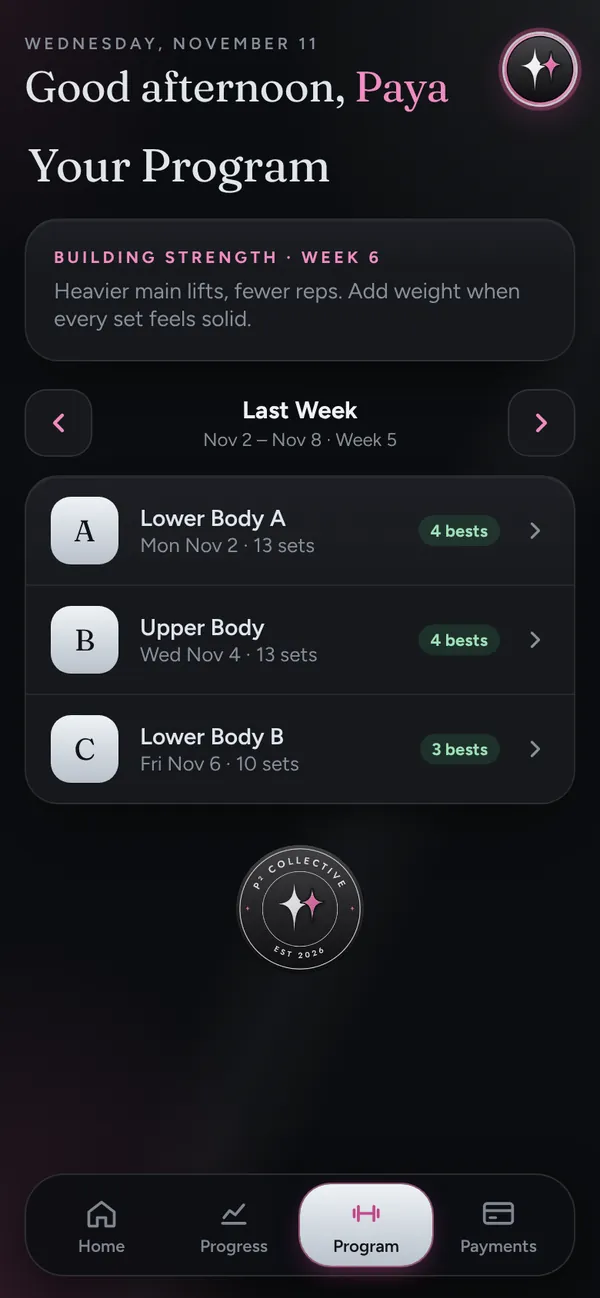
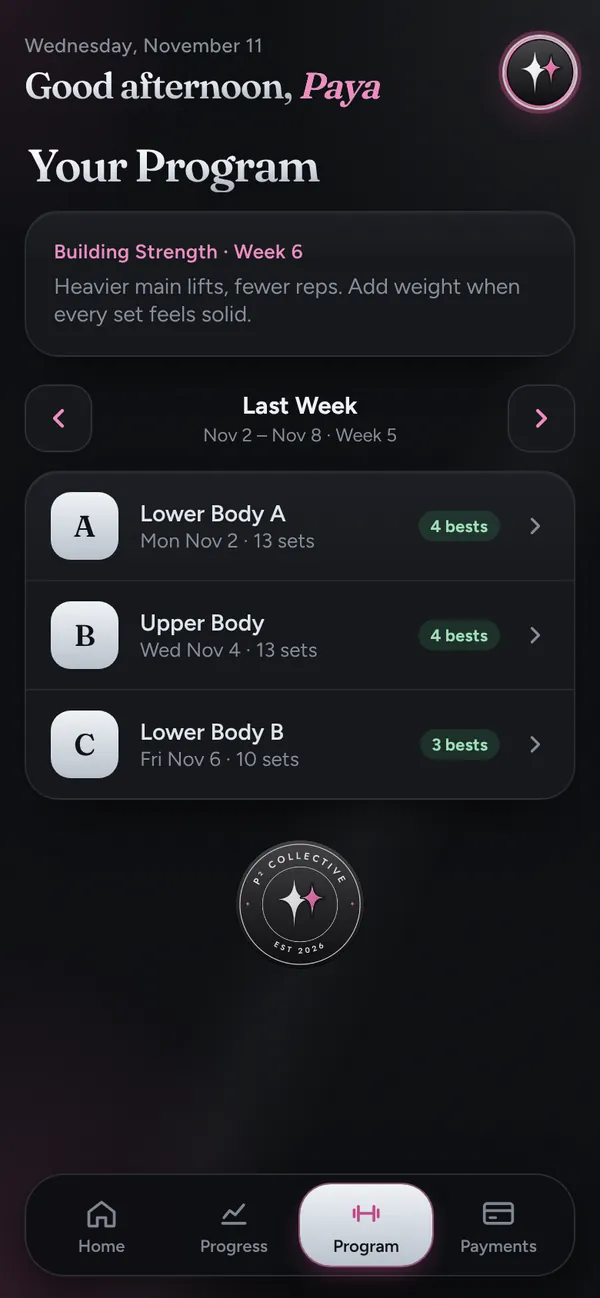
Thicker title font (Fraunces Semibold) on the website and tester dashboards
Claude-Session: https://claude.ai/code/session_01GUqqJf67EPZE3HdT2vwbG5

diff --git a/c/test-8cGrq0vk/index.html b/c/test-8cGrq0vk/index.html
@@ -14,7 +14,7 @@
 <link rel="apple-touch-icon" href="/training/app-icon.png">
 <link rel="icon" href="/training/app-icon.png">
 <link rel="preconnect" href="https://fonts.googleapis.com">
-<link rel="stylesheet" href="https://fonts.googleapis.com/css2?family=Fraunces:opsz,wght@9..144,300;9..144,400;9..144,500&family=Figtree:wght@400;500;600;700&display=swap">
+<link rel="stylesheet" href="https://fonts.googleapis.com/css2?family=Fraunces:ital,opsz,wght@0,9..144,400;0,9..144,600;1,9..144,600&family=Figtree:wght@400;500;600;700&display=swap">
[1 lines of base64/hex data omitted]
 :root{--bg:#121014;--card:#1D1A20;--line:rgba(255,255,255,.08);--fg:#F1ECEF;--muted:#A39BA6;--pink:#E05A9C;--pink2:#F08CC2;--soft:rgba(224,90,156,.16);--green:#9FE0B8;--amber:#F0B86E;--ease:cubic-bezier(.32,.72,0,1)}
 *{box-sizing:border-box}
@@ -241,16 +241,16 @@ body::after{content:"";position:fixed;inset:0;z-index:0;pointer-events:none;opac
 .tabs{position:fixed}
 .top{margin-bottom:22px;align-items:center}
 .top small{letter-spacing:.02em;text-transform:none;font-size:.86rem;font-weight:500}
-.top h1{font-weight:300;font-size:clamp(1.35rem,6.6vw,1.75rem);white-space:nowrap;line-height:1.1;letter-spacing:-.035em;background:linear-gradient(178deg,#fff 8%,#DDE3EA 45%,#8D95A0 98%);-webkit-background-clip:text;background-clip:text;-webkit-text-fill-color:transparent;padding-bottom:.08em}
-.top h1 b{-webkit-text-fill-color:var(--pink2);font-style:italic;font-weight:300}
-h2.page{font-weight:300;font-size:clamp(1.6rem,7.6vw,2rem);white-space:nowrap;line-height:1;letter-spacing:-.035em;margin:2px 2px 12px;background:linear-gradient(178deg,#fff 8%,#DDE3EA 45%,#8D95A0 98%);-webkit-background-clip:text;background-clip:text;-webkit-text-fill-color:transparent;padding-bottom:.08em}
-.sec{font-family:Fraunces,Georgia,serif;font-weight:400;font-size:1.12rem;letter-spacing:-.01em;text-transform:none;color:#EEF2F5;margin:18px 2px 9px;align-items:baseline}
+.top h1{font-weight:600;font-size:clamp(1.35rem,6.6vw,1.75rem);white-space:nowrap;line-height:1.1;letter-spacing:-.035em;background:linear-gradient(178deg,#fff 8%,#DDE3EA 45%,#8D95A0 98%);-webkit-background-clip:text;background-clip:text;-webkit-text-fill-color:transparent;padding-bottom:.08em}
+.top h1 b{-webkit-text-fill-color:var(--pink2);font-style:italic;font-weight:600}
+h2.page{font-weight:600;font-size:clamp(1.6rem,7.6vw,2rem);white-space:nowrap;line-height:1;letter-spacing:-.035em;margin:2px 2px 12px;background:linear-gradient(178deg,#fff 8%,#DDE3EA 45%,#8D95A0 98%);-webkit-background-clip:text;background-clip:text;-webkit-text-fill-color:transparent;padding-bottom:.08em}
+.sec{font-family:Fraunces,Georgia,serif;font-weight:600;font-size:1.12rem;letter-spacing:-.01em;text-transform:none;color:#EEF2F5;margin:18px 2px 9px;align-items:baseline}
 .sec a{font-family:Figtree,sans-serif}
 .lab{letter-spacing:.02em;text-transform:capitalize;font-size:.86rem;font-weight:600}
 /* hero card with the client's own climb drawn behind it */
 .card.glow{position:relative;overflow:hidden;padding:20px 20px 18px;border-radius:26px;background:radial-gradient(90% 90% at 100% 0%,rgba(224,90,156,.24),transparent 62%),#14161B;border-color:rgba(240,140,194,.3);box-shadow:0 30px 60px -34px #000,0 0 60px -30px rgba(224,90,156,.7)}
 .card.glow>*{position:relative;z-index:1}
-.card.glow .big{font-weight:300;font-size:clamp(1.5rem,7.4vw,1.95rem);white-space:nowrap;letter-spacing:-.03em;line-height:1.05;margin-top:8px}
+.card.glow .big{font-weight:600;font-size:clamp(1.5rem,7.4vw,1.95rem);white-space:nowrap;letter-spacing:-.03em;line-height:1.05;margin-top:8px}
 .climb{position:absolute!important;inset:0;z-index:0!important;pointer-events:none}
 .climb svg{position:absolute;inset:0;width:100%;height:100%}
 .climb .ar{fill:url(#cg);opacity:0;animation:cfade 1.4s .8s forwards}
@@ -281,9 +281,14 @@ h2.page{font-weight:300;font-size:clamp(1.6rem,7.6vw,2rem);white-space:nowrap;li
 .chart svg polyline{stroke-dasharray:1;stroke-dashoffset:1;animation:cdraw 1.2s .25s cubic-bezier(.5,.1,.2,1) forwards}
 .chart svg polygon{opacity:0;animation:cfade .9s .9s forwards}
 .chart svg .pk{fill:#fff;filter:drop-shadow(0 0 6px rgba(240,140,194,1)) drop-shadow(0 0 14px rgba(224,90,156,.9));opacity:0;animation:cfade .5s 1.3s forwards}
-.sheet h3{font-weight:300;font-size:2.1rem;letter-spacing:-.03em;line-height:1.05}
-.readout b{font-family:Fraunces,Georgia,serif;font-weight:300;font-size:1.7rem;letter-spacing:-.02em}
+.sheet h3{font-weight:600;font-size:2.1rem;letter-spacing:-.03em;line-height:1.05}
+.readout b{font-family:Fraunces,Georgia,serif;font-weight:600;font-size:1.7rem;letter-spacing:-.02em}
 @media (prefers-reduced-motion:reduce){.climb .ln,.chart svg polyline{animation:none;stroke-dashoffset:0}.climb .ar,.climb i,.chart svg polygon,.chart svg .pk{animation:none;opacity:1}}
+
+/* thicker titles */
+.big,.stats b,.goal b,.sheet h3,.readout b,.mcard .mt b,.badge b,.lock h2,.day .dk,.wb .wl{font-weight:600}
+.top h1{font-size:clamp(1.25rem,6.1vw,1.62rem)}
+.card.glow .big{font-size:clamp(1.4rem,6.9vw,1.8rem)}
 </style>
 <style id="obsidian">
 /* Obsidian Black #111217 + Ice Grey #DFE5EB, pink stays the accent */

diff --git a/c/test-B2b717rd/index.html b/c/test-B2b717rd/index.html
@@ -14,7 +14,7 @@
 <link rel="apple-touch-icon" href="/training/app-icon.png">
 <link rel="icon" href="/training/app-icon.png">
 <link rel="preconnect" href="https://fonts.googleapis.com">
-<link rel="stylesheet" href="https://fonts.googleapis.com/css2?family=Fraunces:opsz,wght@9..144,300;9..144,400;9..144,500&family=Figtree:wght@400;500;600;700&display=swap">
+<link rel="stylesheet" href="https://fonts.googleapis.com/css2?family=Fraunces:ital,opsz,wght@0,9..144,400;0,9..144,600;1,9..144,600&family=Figtree:wght@400;500;600;700&display=swap">
[1 lines of base64/hex data omitted]
 :root{--bg:#121014;--card:#1D1A20;--line:rgba(255,255,255,.08);--fg:#F1ECEF;--muted:#A39BA6;--pink:#E05A9C;--pink2:#F08CC2;--soft:rgba(224,90,156,.16);--green:#9FE0B8;--amber:#F0B86E;--ease:cubic-bezier(.32,.72,0,1)}
 *{box-sizing:border-box}
@@ -241,16 +241,16 @@ body::after{content:"";position:fixed;inset:0;z-index:0;pointer-events:none;opac
 .tabs{position:fixed}
 .top{margin-bottom:22px;align-items:center}
 .top small{letter-spacing:.02em;text-transform:none;font-size:.86rem;font-weight:500}
-.top h1{font-weight:300;font-size:clamp(1.35rem,6.6vw,1.75rem);white-space:nowrap;line-height:1.1;letter-spacing:-.035em;background:linear-gradient(178deg,#fff 8%,#DDE3EA 45%,#8D95A0 98%);-webkit-background-clip:text;background-clip:text;-webkit-text-fill-color:transparent;padding-bottom:.08em}
-.top h1 b{-webkit-text-fill-color:var(--pink2);font-style:italic;font-weight:300}
-h2.page{font-weight:300;font-size:clamp(1.6rem,7.6vw,2rem);white-space:nowrap;line-height:1;letter-spacing:-.035em;margin:2px 2px 12px;background:linear-gradient(178deg,#fff 8%,#DDE3EA 45%,#8D95A0 98%);-webkit-background-clip:text;background-clip:text;-webkit-text-fill-color:transparent;padding-bottom:.08em}
-.sec{font-family:Fraunces,Georgia,serif;font-weight:400;font-size:1.12rem;letter-spacing:-.01em;text-transform:none;color:#EEF2F5;margin:18px 2px 9px;align-items:baseline}
+.top h1{font-weight:600;font-size:clamp(1.35rem,6.6vw,1.75rem);white-space:nowrap;line-height:1.1;letter-spacing:-.035em;background:linear-gradient(178deg,#fff 8%,#DDE3EA 45%,#8D95A0 98%);-webkit-background-clip:text;background-clip:text;-webkit-text-fill-color:transparent;padding-bottom:.08em}
+.top h1 b{-webkit-text-fill-color:var(--pink2);font-style:italic;font-weight:600}
+h2.page{font-weight:600;font-size:clamp(1.6rem,7.6vw,2rem);white-space:nowrap;line-height:1;letter-spacing:-.035em;margin:2px 2px 12px;background:linear-gradient(178deg,#fff 8%,#DDE3EA 45%,#8D95A0 98%);-webkit-background-clip:text;background-clip:text;-webkit-text-fill-color:transparent;padding-bottom:.08em}
+.sec{font-family:Fraunces,Georgia,serif;font-weight:600;font-size:1.12rem;letter-spacing:-.01em;text-transform:none;color:#EEF2F5;margin:18px 2px 9px;align-items:baseline}
 .sec a{font-family:Figtree,sans-serif}
 .lab{letter-spacing:.02em;text-transform:capitalize;font-size:.86rem;font-weight:600}
 /* hero card with the client's own climb drawn behind it */
 .card.glow{position:relative;overflow:hidden;padding:20px 20px 18px;border-radius:26px;background:radial-gradient(90% 90% at 100% 0%,rgba(224,90,156,.24),transparent 62%),#14161B;border-color:rgba(240,140,194,.3);box-shadow:0 30px 60px -34px #000,0 0 60px -30px rgba(224,90,156,.7)}
 .card.glow>*{position:relative;z-index:1}
-.card.glow .big{font-weight:300;font-size:clamp(1.5rem,7.4vw,1.95rem);white-space:nowrap;letter-spacing:-.03em;line-height:1.05;margin-top:8px}
+.card.glow .big{font-weight:600;font-size:clamp(1.5rem,7.4vw,1.95rem);white-space:nowrap;letter-spacing:-.03em;line-height:1.05;margin-top:8px}
 .climb{position:absolute!important;inset:0;z-index:0!important;pointer-events:none}
 .climb svg{position:absolute;inset:0;width:100%;height:100%}
 .climb .ar{fill:url(#cg);opacity:0;animation:cfade 1.4s .8s forwards}
@@ -281,9 +281,14 @@ h2.page{font-weight:300;font-size:clamp(1.6rem,7.6vw,2rem);white-space:nowrap;li
 .chart svg polyline{stroke-dasharray:1;stroke-dashoffset:1;animation:cdraw 1.2s .25s cubic-bezier(.5,.1,.2,1) forwards}
 .chart svg polygon{opacity:0;animation:cfade .9s .9s forwards}
 .chart svg .pk{fill:#fff;filter:drop-shadow(0 0 6px rgba(240,140,194,1)) drop-shadow(0 0 14px rgba(224,90,156,.9));opacity:0;animation:cfade .5s 1.3s forwards}
-.sheet h3{font-weight:300;font-size:2.1rem;letter-spacing:-.03em;line-height:1.05}
-.readout b{font-family:Fraunces,Georgia,serif;font-weight:300;font-size:1.7rem;letter-spacing:-.02em}
+.sheet h3{font-weight:600;font-size:2.1rem;letter-spacing:-.03em;line-height:1.05}
+.readout b{font-family:Fraunces,Georgia,serif;font-weight:600;font-size:1.7rem;letter-spacing:-.02em}
 @media (prefers-reduced-motion:reduce){.climb .ln,.chart svg polyline{animation:none;stroke-dashoffset:0}.climb .ar,.climb i,.chart svg polygon,.chart svg .pk{animation:none;opacity:1}}
+
+/* thicker titles */
+.big,.stats b,.goal b,.sheet h3,.readout b,.mcard .mt b,.badge b,.lock h2,.day .dk,.wb .wl{font-weight:600}
+.top h1{font-size:clamp(1.25rem,6.1vw,1.62rem)}
+.card.glow .big{font-size:clamp(1.4rem,6.9vw,1.8rem)}
 </style>
 <style id="obsidian">
 /* Obsidian Black #111217 + Ice Grey #DFE5EB, pink stays the accent */

diff --git a/c/test-V5ONv3i0/index.html b/c/test-V5ONv3i0/index.html
@@ -14,7 +14,7 @@
 <link rel="apple-touch-icon" href="/training/app-icon.png">
 <link rel="icon" href="/training/app-icon.png">
 <link rel="preconnect" href="https://fonts.googleapis.com">
-<link rel="stylesheet" href="https://fonts.googleapis.com/css2?family=Fraunces:opsz,wght@9..144,300;9..144,400;9..144,500&family=Figtree:wght@400;500;600;700&display=swap">
+<link rel="stylesheet" href="https://fonts.googleapis.com/css2?family=Fraunces:ital,opsz,wght@0,9..144,400;0,9..144,600;1,9..144,600&family=Figtree:wght@400;500;600;700&display=swap">
[1 lines of base64/hex data omitted]
 :root{--bg:#121014;--card:#1D1A20;--line:rgba(255,255,255,.08);--fg:#F1ECEF;--muted:#A39BA6;--pink:#E05A9C;--pink2:#F08CC2;--soft:rgba(224,90,156,.16);--green:#9FE0B8;--amber:#F0B86E;--ease:cubic-bezier(.32,.72,0,1)}
 *{box-sizing:border-box}
@@ -241,16 +241,16 @@ body::after{content:"";position:fixed;inset:0;z-index:0;pointer-events:none;opac
 .tabs{position:fixed}
 .top{margin-bottom:22px;align-items:center}
 .top small{letter-spacing:.02em;text-transform:none;font-size:.86rem;font-weight:500}
-.top h1{font-weight:300;font-size:clamp(1.35rem,6.6vw,1.75rem);white-space:nowrap;line-height:1.1;letter-spacing:-.035em;background:linear-gradient(178deg,#fff 8%,#DDE3EA 45%,#8D95A0 98%);-webkit-background-clip:text;background-clip:text;-webkit-text-fill-color:transparent;padding-bottom:.08em}
-.top h1 b{-webkit-text-fill-color:var(--pink2);font-style:italic;font-weight:300}
-h2.page{font-weight:300;font-size:clamp(1.6rem,7.6vw,2rem);white-space:nowrap;line-height:1;letter-spacing:-.035em;margin:2px 2px 12px;background:linear-gradient(178deg,#fff 8%,#DDE3EA 45%,#8D95A0 98%);-webkit-background-clip:text;background-clip:text;-webkit-text-fill-color:transparent;padding-bottom:.08em}
-.sec{font-family:Fraunces,Georgia,serif;font-weight:400;font-size:1.12rem;letter-spacing:-.01em;text-transform:none;color:#EEF2F5;margin:18px 2px 9px;align-items:baseline}
+.top h1{font-weight:600;font-size:clamp(1.35rem,6.6vw,1.75rem);white-space:nowrap;line-height:1.1;letter-spacing:-.035em;background:linear-gradient(178deg,#fff 8%,#DDE3EA 45%,#8D95A0 98%);-webkit-background-clip:text;background-clip:text;-webkit-text-fill-color:transparent;padding-bottom:.08em}
+.top h1 b{-webkit-text-fill-color:var(--pink2);font-style:italic;font-weight:600}
+h2.page{font-weight:600;font-size:clamp(1.6rem,7.6vw,2rem);white-space:nowrap;line-height:1;letter-spacing:-.035em;margin:2px 2px 12px;background:linear-gradient(178deg,#fff 8%,#DDE3EA 45%,#8D95A0 98%);-webkit-background-clip:text;background-clip:text;-webkit-text-fill-color:transparent;padding-bottom:.08em}
+.sec{font-family:Fraunces,Georgia,serif;font-weight:600;font-size:1.12rem;letter-spacing:-.01em;text-transform:none;color:#EEF2F5;margin:18px 2px 9px;align-items:baseline}
 .sec a{font-family:Figtree,sans-serif}
 .lab{letter-spacing:.02em;text-transform:capitalize;font-size:.86rem;font-weight:600}
 /* hero card with the client's own climb drawn behind it */
 .card.glow{position:relative;overflow:hidden;padding:20px 20px 18px;border-radius:26px;background:radial-gradient(90% 90% at 100% 0%,rgba(224,90,156,.24),transparent 62%),#14161B;border-color:rgba(240,140,194,.3);box-shadow:0 30px 60px -34px #000,0 0 60px -30px rgba(224,90,156,.7)}
 .card.glow>*{position:relative;z-index:1}
-.card.glow .big{font-weight:300;font-size:clamp(1.5rem,7.4vw,1.95rem);white-space:nowrap;letter-spacing:-.03em;line-height:1.05;margin-top:8px}
+.card.glow .big{font-weight:600;font-size:clamp(1.5rem,7.4vw,1.95rem);white-space:nowrap;letter-spacing:-.03em;line-height:1.05;margin-top:8px}
 .climb{position:absolute!important;inset:0;z-index:0!important;pointer-events:none}
 .climb svg{position:absolute;inset:0;width:100%;height:100%}
 .climb .ar{fill:url(#cg);opacity:0;animation:cfade 1.4s .8s forwards}
@@ -281,9 +281,14 @@ h2.page{font-weight:300;font-size:clamp(1.6rem,7.6vw,2rem);white-space:nowrap;li
 .chart svg polyline{stroke-dasharray:1;stroke-dashoffset:1;animation:cdraw 1.2s .25s cubic-bezier(.5,.1,.2,1) forwards}
 .chart svg polygon{opacity:0;animation:cfade .9s .9s forwards}
 .chart svg .pk{fill:#fff;filter:drop-shadow(0 0 6px rgba(240,140,194,1)) drop-shadow(0 0 14px rgba(224,90,156,.9));opacity:0;animation:cfade .5s 1.3s forwards}
-.sheet h3{font-weight:300;font-size:2.1rem;letter-spacing:-.03em;line-height:1.05}
-.readout b{font-family:Fraunces,Georgia,serif;font-weight:300;font-size:1.7rem;letter-spacing:-.02em}
+.sheet h3{font-weight:600;font-size:2.1rem;letter-spacing:-.03em;line-height:1.05}
+.readout b{font-family:Fraunces,Georgia,serif;font-weight:600;font-size:1.7rem;letter-spacing:-.02em}
 @media (prefers-reduced-motion:reduce){.climb .ln,.chart svg polyline{animation:none;stroke-dashoffset:0}.climb .ar,.climb i,.chart svg polygon,.chart svg .pk{animation:none;opacity:1}}
+
+/* thicker titles */
+.big,.stats b,.goal b,.sheet h3,.readout b,.mcard .mt b,.badge b,.lock h2,.day .dk,.wb .wl{font-weight:600}
+.top h1{font-size:clamp(1.25rem,6.1vw,1.62rem)}
+.card.glow .big{font-size:clamp(1.4rem,6.9vw,1.8rem)}
 </style>
 <style id="obsidian">
 /* Obsidian Black #111217 + Ice Grey #DFE5EB, pink stays the accent */

diff --git a/index.html b/index.html
@@ -17,7 +17,7 @@
 <link rel="icon" href="site/logo.png">
 <link rel="apple-touch-icon" href="site/logo.png">
 <link rel="preconnect" href="https://fonts.googleapis.com"><link rel="preconnect" href="https://fonts.gstatic.com" crossorigin>
-<link href="https://fonts.googleapis.com/css2?family=Fraunces:ital,opsz,wght@0,9..144,300;0,9..144,400;1,9..144,300&family=Figtree:wght@400;500;600;700&display=swap" rel="stylesheet">
+<link href="https://fonts.googleapis.com/css2?family=Fraunces:ital,opsz,wght@0,9..144,400;0,9..144,600;1,9..144,600&family=Figtree:wght@400;500;600;700&display=swap" rel="stylesheet">
 <style>
 :root{--bg:#0A0B0E;--panel:#14161B;--ice:#DFE5EB;--hi:#F4F7FA;--muted:#9AA2AD;--dim:#6A717C;--pink:#E05A9C;--pink2:#F08CC2;--line:rgba(223,229,235,.11);--ease:cubic-bezier(.2,.7,.2,1);--gut:22px;--max:1160px}
 *{box-sizing:border-box;margin:0;padding:0}
@@ -28,9 +28,9 @@ img{display:block;max-width:100%}
 button{font:inherit;color:inherit}
 :focus-visible{outline:2px solid var(--pink2);outline-offset:3px;border-radius:6px}
 .wrap{width:100%;max-width:var(--max);margin:0 auto;padding:0 var(--gut)}
-.disp{font-family:Fraunces,Georgia,serif;font-weight:300;letter-spacing:-.035em;line-height:.96}
+.disp{font-family:Fraunces,Georgia,serif;font-weight:600;letter-spacing:-.035em;line-height:.96}
 .chrome{background:linear-gradient(178deg,#FFFFFF 8%,#DDE3EA 42%,#8D95A0 96%);-webkit-background-clip:text;background-clip:text;-webkit-text-fill-color:transparent;color:var(--hi)}
-h2{font-family:Fraunces,Georgia,serif;font-weight:300;letter-spacing:-.03em;line-height:1;font-size:clamp(2.3rem,7.4vw,4.4rem);color:var(--hi)}
+h2{font-family:Fraunces,Georgia,serif;font-weight:600;letter-spacing:-.03em;line-height:1;font-size:clamp(2.3rem,7.4vw,4.4rem);color:var(--hi)}
 .lede{color:#B4BCC6;font-size:1.06rem;max-width:33em}
 .btn{display:inline-flex;align-items:center;justify-content:center;font-weight:700;font-size:.98rem;padding:14px 26px;border-radius:99px;border:0;cursor:pointer;color:#101116;background:linear-gradient(180deg,#F7F9FB,#B4BCC7);box-shadow:0 0 0 1.5px rgba(240,140,194,.75),0 18px 44px -16px rgba(224,90,156,.85);transition:transform .2s var(--ease),box-shadow .2s}
 .btn:hover{transform:translateY(-2px);box-shadow:0 0 0 1.5px var(--pink2),0 24px 50px -14px rgba(224,90,156,1)}
@@ -74,7 +74,7 @@ section{position:relative;z-index:1}
 @keyframes fade{to{opacity:1}}
 @keyframes pop{0%{opacity:0;transform:scale(.2) rotate(-40deg)}60%{opacity:1;transform:scale(1.25) rotate(8deg)}100%{opacity:1;transform:none}}
 .hero .wrap{display:grid;gap:26px}
-.hero h1{font-size:clamp(3.5rem,15.2vw,10rem);margin:0}
+.hero h1{font-size:clamp(2.8rem,12.6vw,10rem);margin:0}
 .hero h1 span{display:block;opacity:0;transform:translateY(.25em);animation:rise 1s var(--ease) forwards}
 .hero h1 span:nth-child(2){animation-delay:.12s}
 .hero h1 span:nth-child(3){animation-delay:.24s;padding-bottom:.08em}
@@ -82,7 +82,7 @@ section{position:relative;z-index:1}
 .hero .side{display:grid;gap:20px;opacity:0;animation:rise 1s .5s var(--ease) forwards;transform:translateY(14px)}
 .cta-row{display:flex;flex-wrap:wrap;gap:10px}
 .proof{display:flex;gap:26px;padding-top:16px;border-top:1px solid var(--line)}
-.proof b{display:block;font-family:Fraunces,serif;font-weight:300;font-size:1.7rem;line-height:1.1;color:var(--hi)}
+.proof b{display:block;font-family:Fraunces,serif;font-weight:600;font-size:1.7rem;line-height:1.1;color:var(--hi)}
 .proof span{font-size:.84rem;color:var(--muted)}
 .hero .device{position:relative;justify-self:center;margin-top:6px}
 
@@ -123,7 +123,7 @@ section{position:relative;z-index:1}
 /* in person */
 .ways{display:grid;margin-top:34px}
 .ways article{padding:24px 0;border-top:1px solid var(--line);display:grid;gap:8px;align-content:start}
-.ways h3{font-family:Fraunces,serif;font-weight:300;font-size:2rem;letter-spacing:-.02em;line-height:1.05;color:var(--hi)}
+.ways h3{font-family:Fraunces,serif;font-weight:600;font-size:2rem;letter-spacing:-.02em;line-height:1.05;color:var(--hi)}
 .ways h3 small{display:inline-block;vertical-align:middle;margin-left:10px;font:700 .72rem Figtree,sans-serif;letter-spacing:.02em;padding:4px 10px;border-radius:99px;color:var(--pink2);background:rgba(224,90,156,.16)}
 .ways p{color:var(--muted);font-size:.98rem;max-width:30em}
 .ways .txt{justify-self:start;margin-top:6px;font-size:.95rem}
@@ -138,7 +138,7 @@ section{position:relative;z-index:1}
 
 /* results: big type that lights up as it passes */
 .wins{list-style:none;margin-top:26px}
-.wins li{display:flex;align-items:center;gap:.4em;font-family:Fraunces,serif;font-weight:300;letter-spacing:-.03em;line-height:1.12;font-size:clamp(2.1rem,8.6vw,5.4rem);color:rgba(223,229,235,.2);padding:.1em 0;transition:color .5s var(--ease),transform .5s var(--ease)}
+.wins li{display:flex;align-items:center;gap:.4em;font-family:Fraunces,serif;font-weight:600;letter-spacing:-.03em;line-height:1.12;font-size:clamp(2.1rem,8.6vw,5.4rem);color:rgba(223,229,235,.2);padding:.1em 0;transition:color .5s var(--ease),transform .5s var(--ease)}
 .wins li svg{flex:none;width:.42em;height:.42em;fill:var(--pink2);opacity:0;transform:scale(.3) rotate(-45deg);transition:opacity .4s,transform .5s var(--ease);filter:drop-shadow(0 0 10px rgba(224,90,156,.9))}
 .wins li.lit{color:var(--hi);transform:translateX(8px)}
 .wins li.lit svg{opacity:1;transform:none}
@@ -156,7 +156,7 @@ section{position:relative;z-index:1}
 .feats button:last-child{border-bottom:1px solid var(--line)}
 .feats button::before{content:"";grid-row:1/3;border-radius:3px;background:transparent;transition:background .3s}
 .feats button b,.feats button span{grid-column:2}
-.feats button b{display:block;font-family:Fraunces,serif;font-weight:300;font-size:1.5rem;letter-spacing:-.02em;line-height:1.1;color:rgba(223,229,235,.45);transition:color .3s}
+.feats button b{display:block;font-family:Fraunces,serif;font-weight:600;font-size:1.5rem;letter-spacing:-.02em;line-height:1.1;color:rgba(223,229,235,.45);transition:color .3s}
 .feats button span{display:block;color:var(--muted);font-size:.95rem;max-height:0;overflow:hidden;opacity:0;transition:max-height .4s var(--ease),opacity .3s,margin .3s}
 .feats button[aria-current="true"]::before{background:linear-gradient(180deg,#F08CC2,#B23A77)}
 .feats button[aria-current="true"] b{color:var(--hi)}
@@ -192,14 +192,14 @@ form .btn{width:100%;margin-top:6px}
 .alt{text-align:center;font-size:.92rem;color:var(--muted)}
 .alt a{color:var(--pink2);font-weight:700}
 .done{text-align:center;padding:30px 6px}
-.done h3{font-family:Fraunces,serif;font-weight:300;font-size:2.2rem;color:var(--hi);margin-bottom:8px}
+.done h3{font-family:Fraunces,serif;font-weight:600;font-size:2.2rem;color:var(--hi);margin-bottom:8px}
 .done p{color:var(--muted)}
 
 /* footer */
 footer{position:relative;z-index:1;overflow:hidden;padding:40px 0 0;border-top:1px solid var(--line)}
 footer .meta{display:flex;flex-wrap:wrap;gap:10px 24px;justify-content:space-between;color:var(--dim);font-size:.88rem}
 footer .meta a{color:var(--pink2);font-weight:700}
-footer .mark{font-family:Fraunces,serif;font-weight:300;letter-spacing:-.05em;line-height:.8;font-size:clamp(4.4rem,21vw,17rem);white-space:nowrap;margin:30px 0 -.16em;text-align:center;background:linear-gradient(180deg,rgba(223,229,235,.32),rgba(223,229,235,.02) 86%);-webkit-background-clip:text;background-clip:text;-webkit-text-fill-color:transparent}
+footer .mark{font-family:Fraunces,serif;font-weight:600;letter-spacing:-.05em;line-height:.8;font-size:clamp(4.4rem,21vw,17rem);white-space:nowrap;margin:30px 0 -.16em;text-align:center;background:linear-gradient(180deg,rgba(223,229,235,.32),rgba(223,229,235,.02) 86%);-webkit-background-clip:text;background-clip:text;-webkit-text-fill-color:transparent}
 footer .mark sup{font-size:.5em;vertical-align:.62em;letter-spacing:0}
 
 .stick{position:fixed;left:16px;right:16px;bottom:calc(14px + env(safe-area-inset-bottom,0px));z-index:30;display:flex;justify-content:center;padding:14px;border-radius:99px;font-weight:700;color:#101116;background:linear-gradient(180deg,#F7F9FB,#B4BCC7);box-shadow:0 0 0 1.5px rgba(240,140,194,.75),0 16px 40px -10px #000,0 0 30px -6px rgba(224,90,156,.6);transform:translateY(160%);opacity:0;transition:transform .35s var(--ease),opacity .3s;pointer-events:none}
@@ -215,7 +215,7 @@ section[id]{scroll-margin-top:70px}
   .sec{padding:130px 0}
   .hero{padding:120px 0 56px}
   .hero .wrap{grid-template-columns:1fr auto;align-items:end;gap:40px}
-  .hero h1{font-size:clamp(4.6rem,9.2vw,9rem)}
+  .hero h1{font-size:clamp(4.4rem,8.6vw,8.6rem)}
   .hero h1 span{white-space:nowrap}
   .hero .side{max-width:30em;padding-bottom:10px}
   .hero .device{grid-column:2;grid-row:1/3;align-self:end;margin:0 30px 0 0;transform:rotate(5deg)}
